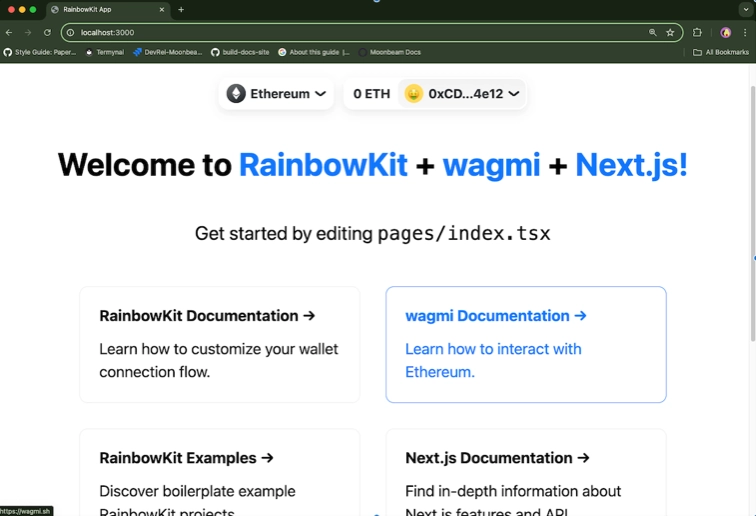
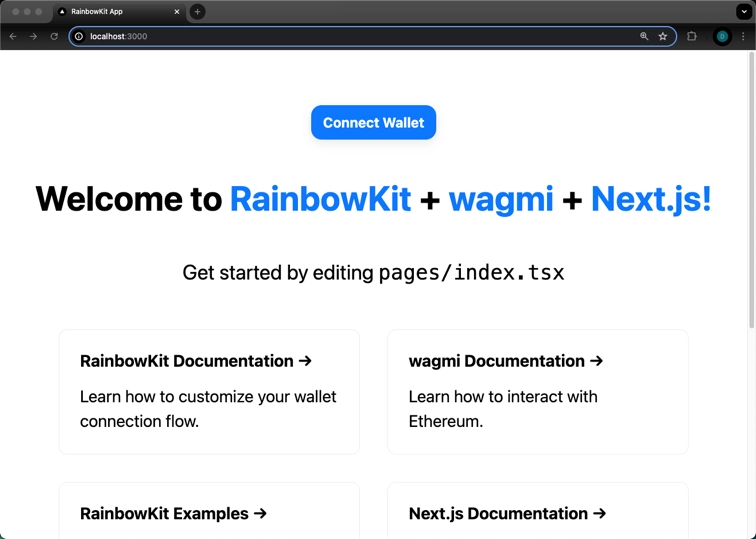
adds new image 1, updates content

diff --git a/.snippets/code/builders/integrations/wallets/rainbowkit/wagmi.ts b/.snippets/code/builders/integrations/wallets/rainbowkit/wagmi.ts
@@ -1,0 +1,9 @@
+import { getDefaultConfig } from '@rainbow-me/rainbowkit';
+import { moonbeam, moonriver, moonbaseAlpha } from 'wagmi/chains';
+
+export const config = getDefaultConfig({
+  appName: 'RainbowKit App',
+  projectId: 'YOUR_PROJECT_ID',
+  chains: [moonbeam, moonriver, moonbaseAlpha],
+  ssr: true,
+});

diff --git a/builders/integrations/wallets/rainbowkit.md b/builders/integrations/wallets/rainbowkit.md
@@ -1,6 +1,5 @@
 ---
 title: Add RainbowKit to a DApp
-title: Add RainbowKit to a DApp
 description: Learn how to integrate RainbowKit into a dApp to allow users to connect their mobile wallets to Moonbeam, Moonriver, or Moonbase Alpha networks.
 ---
 
@@ -69,15 +68,27 @@ Your starting screen should look like this:
 ![Scaffolded RainbowKit project landing page](/images/builders/integrations/wallets/rainbowkit/rainbowkit-1.webp)
 
 
-The default list of supported networks does not include Moonbeam, Moonriver, or Moonbase Alpha. 
+Moonbeam, Moonriver, and Moonbase Alpha are not on the list of default supported networks. You can customize your dApp's supported networks in the `wagmi.ts` file by updating the chain entrypoints imported from `wagmi/chains` and passed to the `chains` property when defining `config`. Wagmi uses chain definitions established by viem which include the chain name. Chain names for Moonbeam networks: 
 
-<!--TODO: add content for adding moonbeam to the chains on the CLI template app-->
+- Moonbeam - `moonbeam`
+- Moonriver - `moonriver`
+- Moonbase Alpha - `moonbaseAlpha`
+
+Update `wagmi.ts` as follows. You will learn how to get the `projectId` value in the next section. 
+
+```js title="src/wagmi.ts"
+
+--8<-- 'code/builders/integrations/wallets/rainbowkit/wagmi.ts'
+
+```
 
 If you want to add RainbowKit to an existing React application, you can complete a manual setup. The following sections will guide you through using the manual setup to install and import needed dependencies, configuring chain connections to support Moonbeam networks, and making RainbowKit functionality available to users of your dApp. You will also learn how to specify which chain the **Connect Wallet** button should connect to by default and how to customize the RainbowKit theme to fit your project.
 
 ## Checking Prerequisites {: #checking-prerequisites }
 
 Following this guide requires a basic frontend dApp built with [React](https://react.dev/){target=\_blank} to connect to a mobile wallet via RainbowKit. This example uses [Next.js](https://nextjs.org/docs){target=\_blank} with the App Router. You can find examples for additional frameworks in the [RainbowKit examples repository](https://github.com/rainbow-me/rainbowkit/tree/main/examples){target=\_blank}.
+
+
 
 Another essential requirement is a mobile wallet of your choice. This example uses [MetaMask](https://metamask.io/){target=\_blank}. However, RainbowKit supports a variety of wallets, and you can find a complete list on the RainbowKit [Custom Wallet List](https://www.rainbowkit.com/docs/custom-wallet-list){target=\_blank}.
 

diff --git a/.snippets/code/builders/integrations/wallets/rainbowkit/terminal/cli-quickstart.md b/.snippets/code/builders/integrations/wallets/rainbowkit/terminal/cli-quickstart.md
@@ -1,8 +1,6 @@
 <div id="termynal" data-termynal>
     <span data-ty="input"><span class="file-path"></span>npm init @rainbow-me/rainbowkit@latest
 </span>
-    <span data-ty="input" data-ty-prompt=""> > npx</span>
-    <span data-ty="input" data-ty-prompt=""> > create-rainbowkit</span>
     <span data-ty="input" data-ty-prompt=""> 🌈 Welcome to RainbowKit!</span>
     <span data-ty="input" data-ty-prompt="✔ What is the name of your project?"> rainbow-demo</span>
     <span data-ty="input" data-ty-prompt=""> 🚀 Creating a new RainbowKit app in /Users/dawnkelly/Documents/papermoon_builds/RainbowKit/add-rainbow-kit/rainbow-demo</span>
